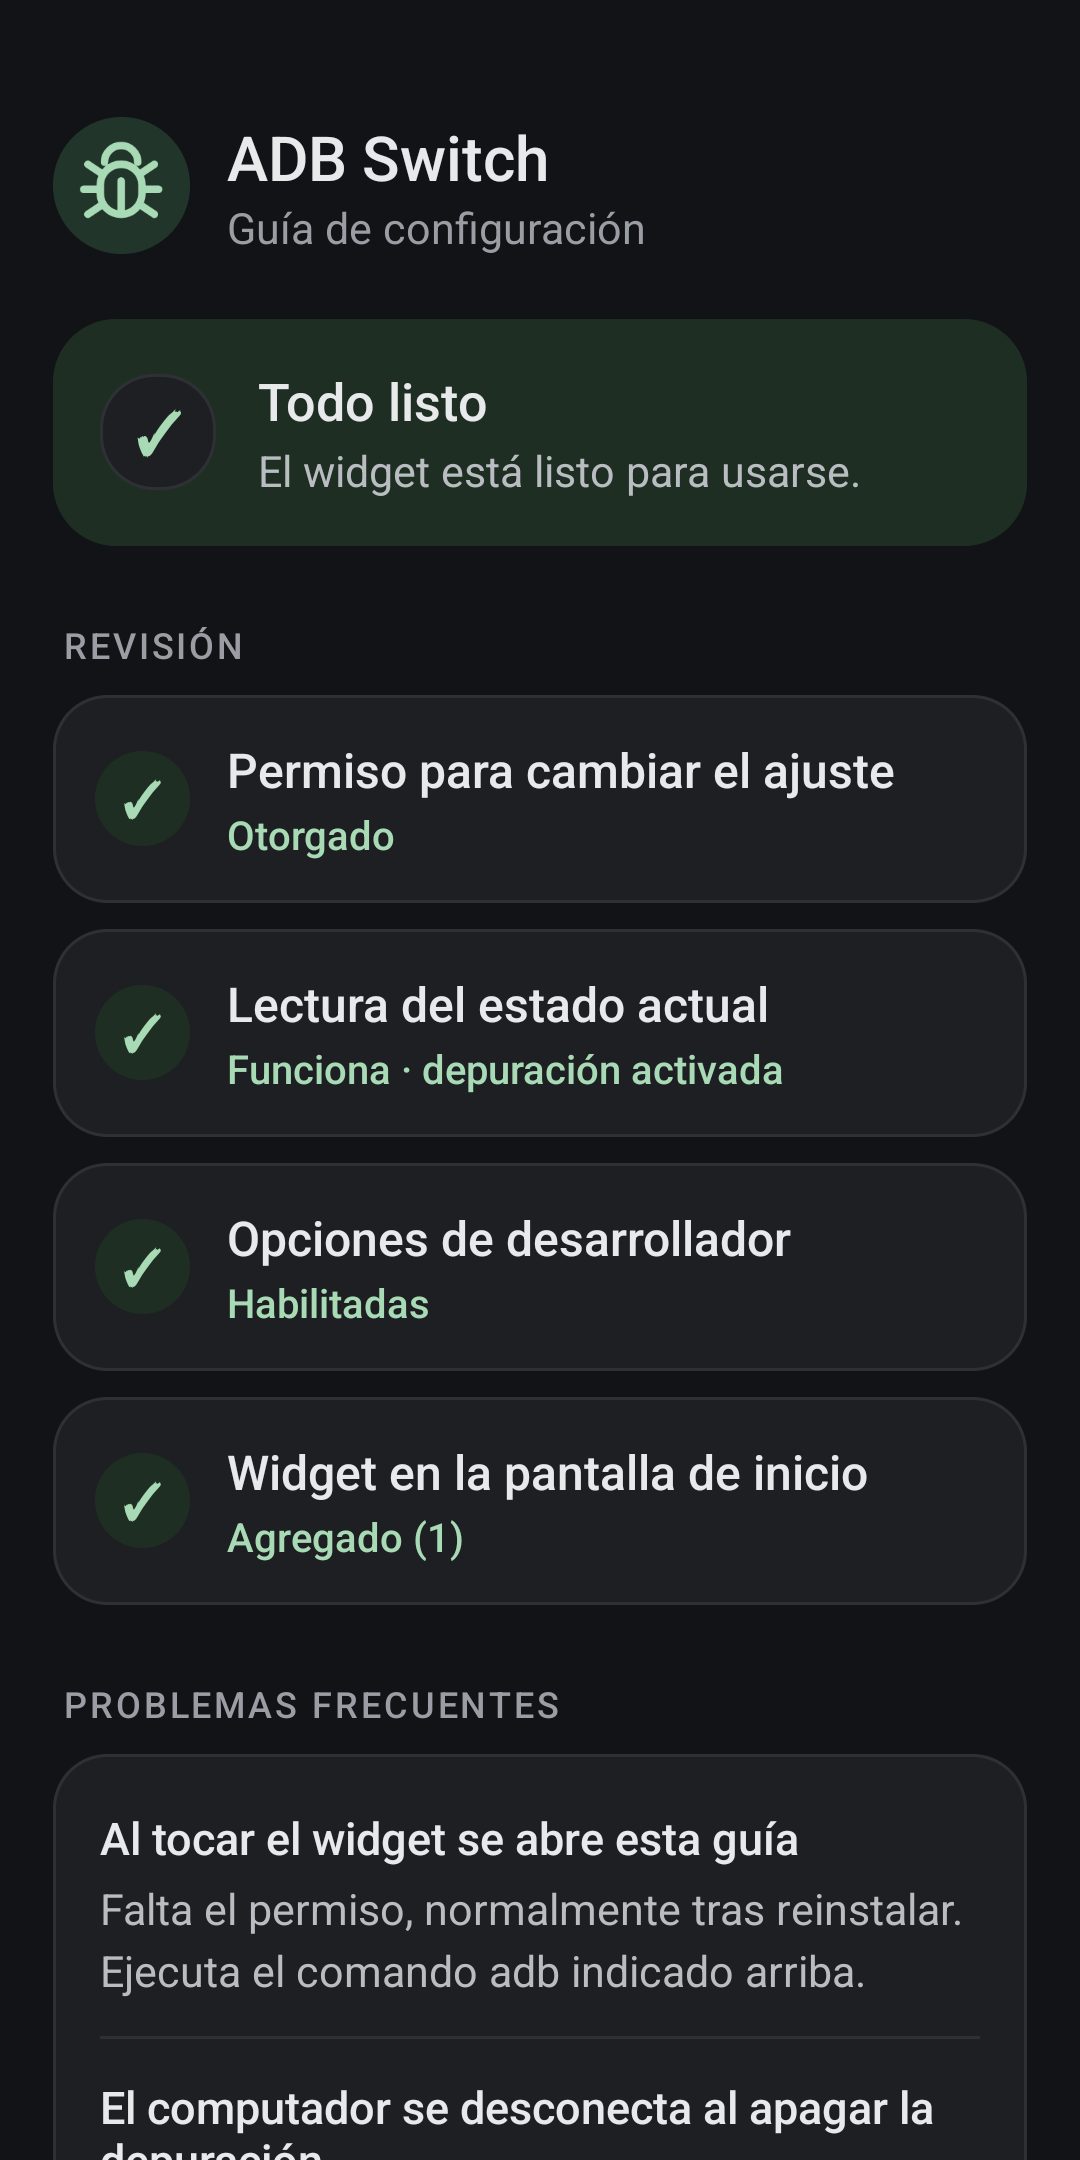
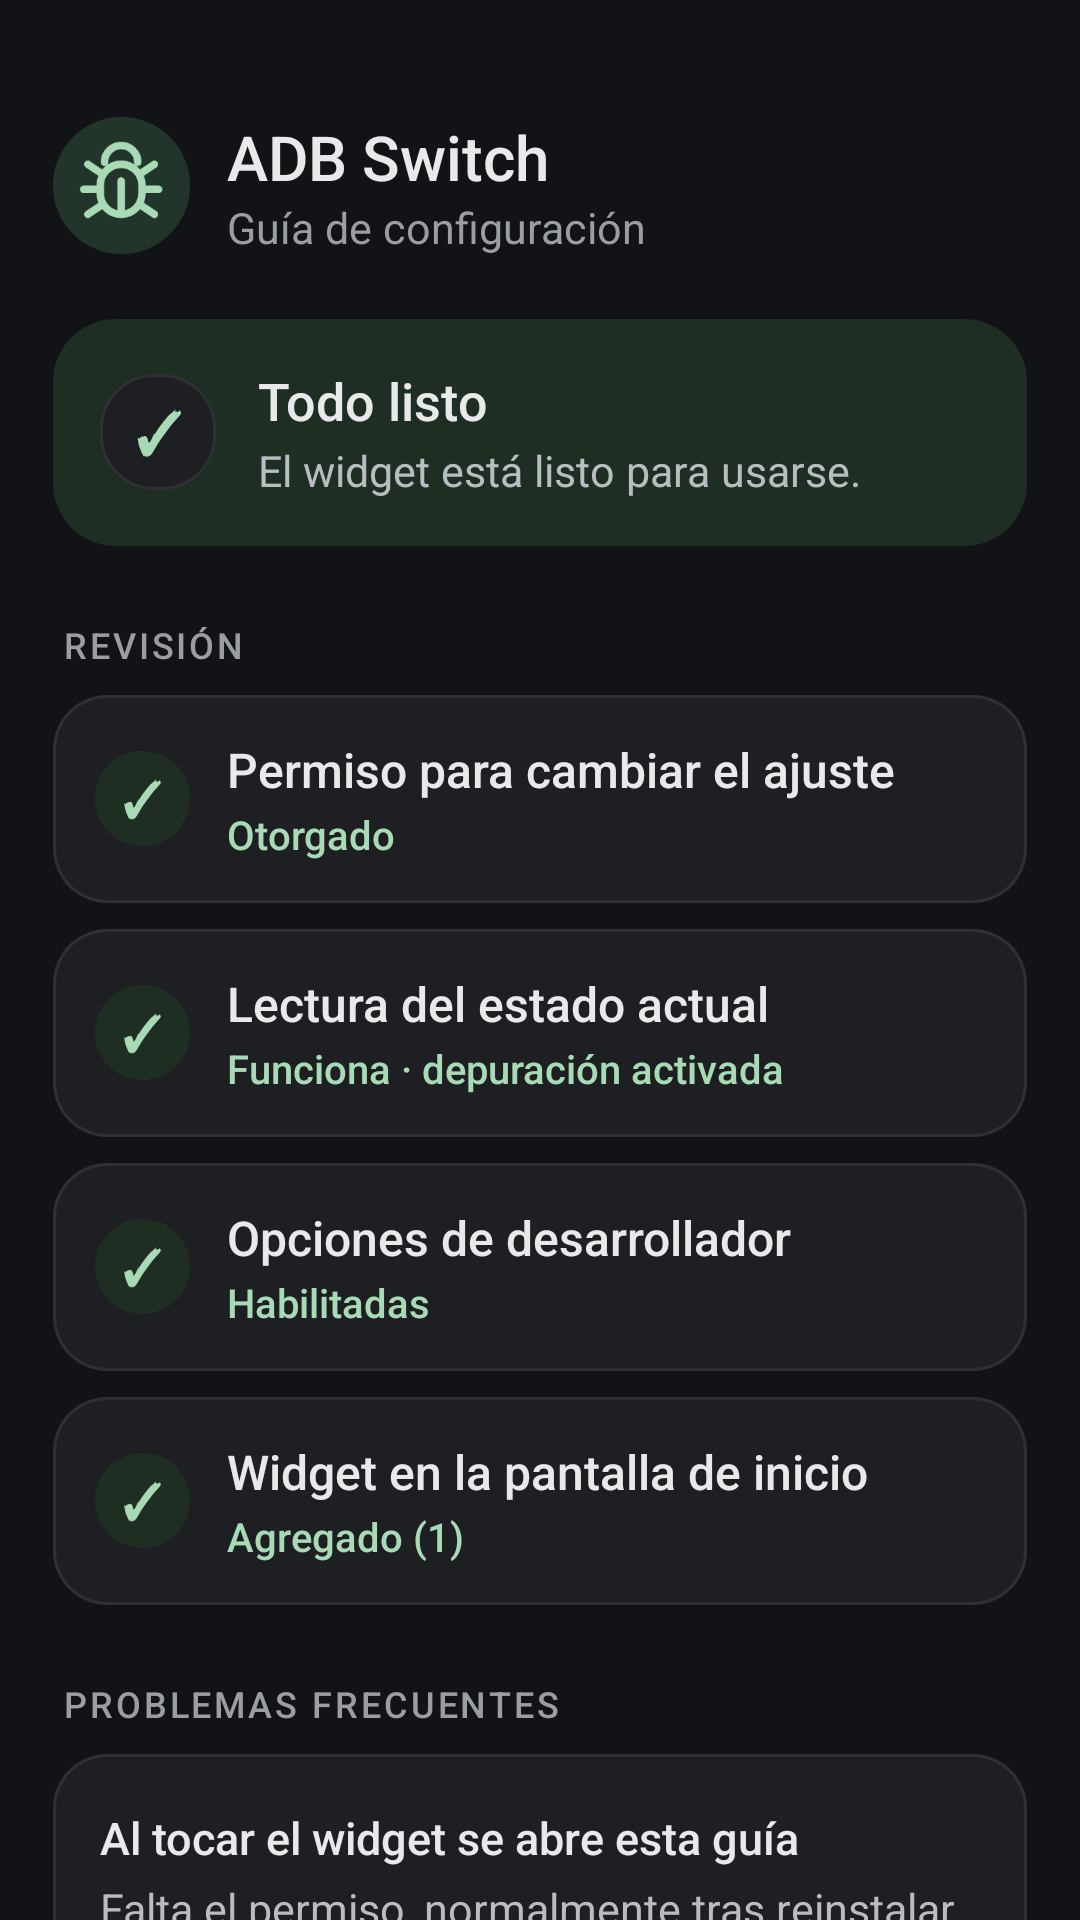
feat: in-app privacy policy link, 9:16 store screenshots
Play requires the privacy policy to be reachable inside the app;
the setup guide now links it. Store screenshots recropped to 9:16
(1080x1920) as Play Console requires.

diff --git a/src/main/java/com/deinygp/adbswitch/SetupActivity.java b/src/main/java/com/deinygp/adbswitch/SetupActivity.java
@@ -37,6 +37,7 @@ public class SetupActivity extends Activity {
     private static final int OK = 0, WARN = 1, ERR = 2;
     static final String GRANT_CMD = "adb shell pm grant com.deinygp.adbswitch android.permission.WRITE_SECURE_SETTINGS";
     private static final String ISSUES_URL = "https://github.com/deinygp/adb-switch/issues";
+    private static final String PRIVACY_URL = "https://deinygp.github.io/adb-switch/privacy.html";
 
     private LinearLayout checks;
 
@@ -46,6 +47,7 @@ public class SetupActivity extends Activity {
         setContentView(R.layout.activity_setup);
         checks = findViewById(R.id.checks);
         renderFaq();
+        findViewById(R.id.privacy_policy).setOnClickListener(open(new Intent(Intent.ACTION_VIEW, Uri.parse(PRIVACY_URL))));
         requestConsentThenAds();
     }
 
